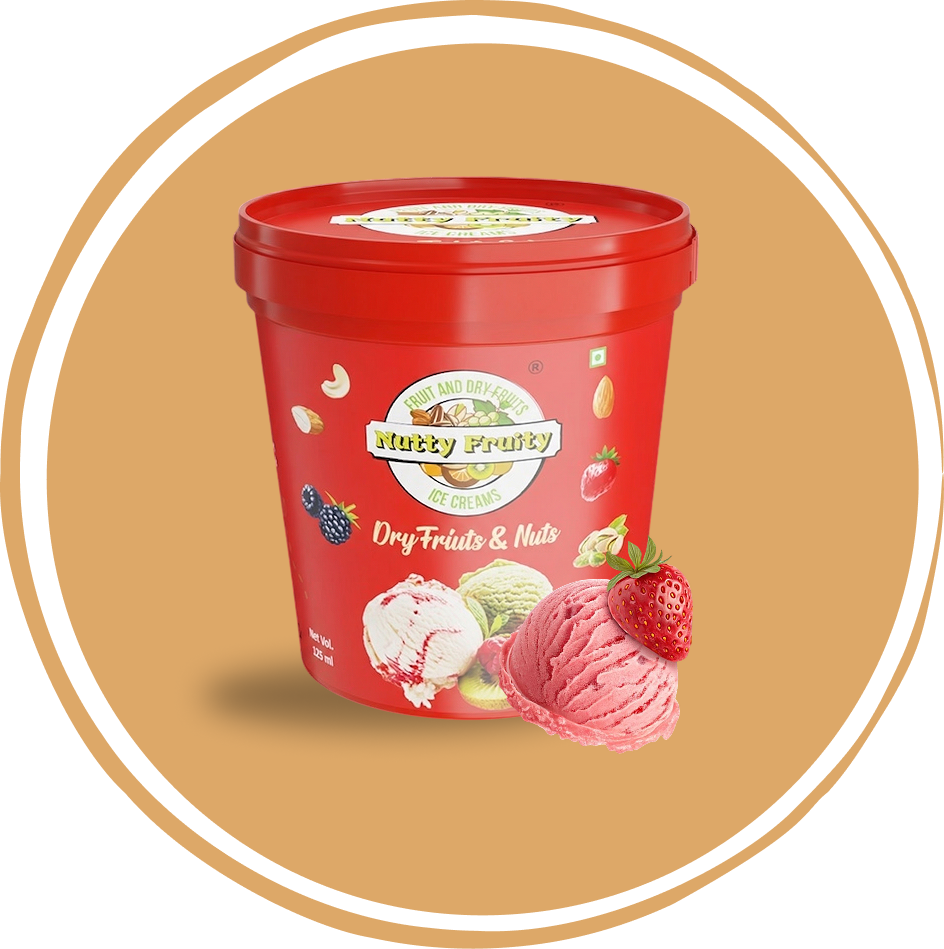
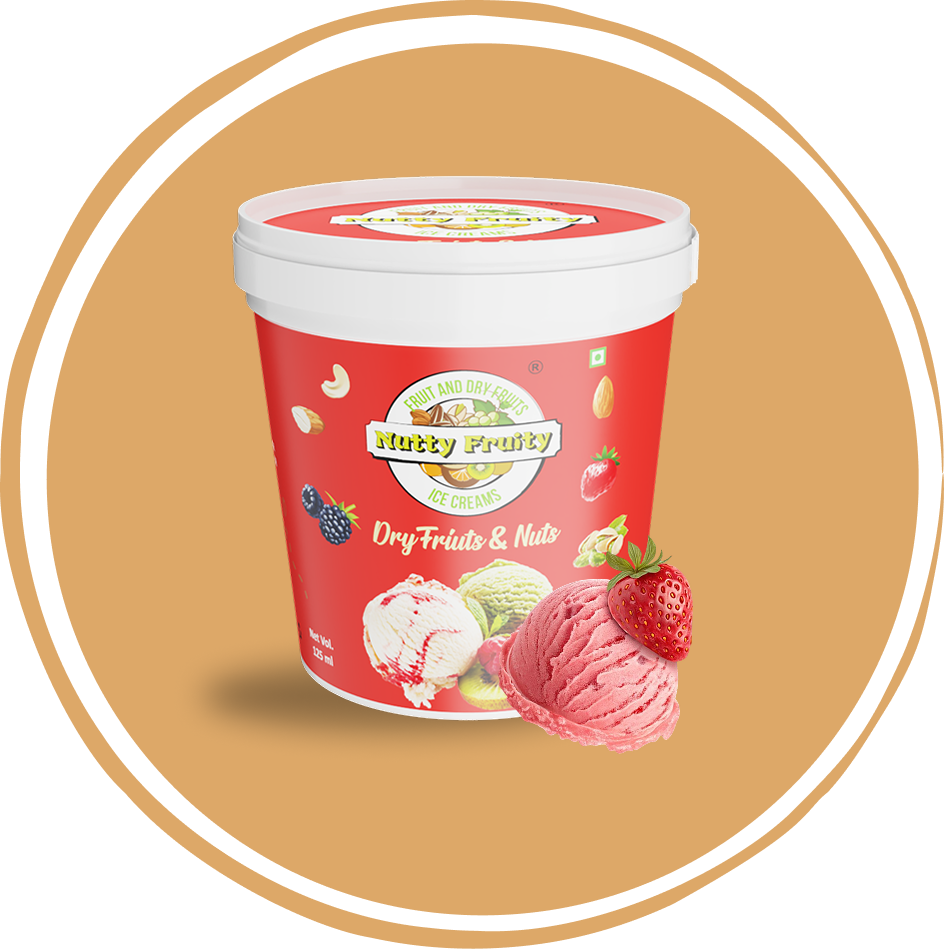
first commit

diff --git a/For_Desc/script2.js b/For_Desc/script2.js
@@ -515,13 +515,26 @@ function iceCreamRoundCrossfadeBg(newSrc) {
 // translateX(-33%) = centre slot visible        ← default/resting
 // translateX(-66%) = next slot visible
 
+// ── Track slide out ───────────────────────────────────────────
 function iceCreamRoundSlideTrackOut(direction) {
   const t = iceCreamRoundEl.track;
-  t.style.transition = "transform 0.42s cubic-bezier(0.4,0,0.6,1)";
-  // next → slide left (negative), prev → slide right (positive)
-  t.style.transform  = direction === "next"
-    ? "translateX(-66.666%)"
-    : "translateX(0%)";
+  t.style.transition = "transform 0.5s cubic-bezier(0.4, 0, 0.6, 1)";
+
+  if (direction === "next") {
+    // Slide left — next slot comes into view
+    t.style.transform = "translateX(-66.666%)";
+  } else {
+    // Slide right — previous slot comes into view
+    t.style.transform = "translateX(0%)";
+  }
+}
+
+// ── Snap back to centre instantly, then settle ────────────────
+function iceCreamRoundSnapToCenter() {
+  const t = iceCreamRoundEl.track;
+  t.style.transition = "none";
+  t.style.transform  = "translateX(-33.333%)";
+  t.offsetWidth; // force reflow
 }
 
 function iceCreamRoundSnapAndSlideIn() {
@@ -575,35 +588,76 @@ function iceCreamRoundUpdateDots() {
   });
 }
 
+// ── Preload container images before transition ────────────────
+function iceCreamRoundPreloadImages(product) {
+  return new Promise((resolve) => {
+    let loaded = 0;
+    const sources = [
+      product.previousContainerImg,
+      product.currentContainerImg,
+      product.nextContainerImg
+    ];
+    const total = sources.length;
+
+    sources.forEach((src) => {
+      const img = new Image();
+      img.onload = img.onerror = () => {
+        loaded++;
+        if (loaded >= total) resolve();
+      };
+      img.src = src;
+    });
+
+    // Safety fallback
+    setTimeout(resolve, 1200);
+  });
+}
+
 // ── Master transition ─────────────────────────────────────────
+// ── Master transition (carousel slide) ────────────────────────
 function iceCreamRoundTransitionTo(newIndex, direction) {
   if (iceCreamRoundIsAnimating) return;
   iceCreamRoundIsAnimating = true;
 
   const product = iceCreamRoundProducts[newIndex];
 
-  // 1. Fade background immediately
-  iceCreamRoundCrossfadeBg(product.backgroundImg);
+  // 1. Preload next set of images
+  iceCreamRoundPreloadImages(product).then(() => {
 
-  // 2. Slide track out
-  iceCreamRoundSlideTrackOut(direction);
+    // 2. Crossfade background
+    iceCreamRoundCrossfadeBg(product.backgroundImg);
 
-  // 3. Mid-point: swap images + slide back in + reveal texts
-setTimeout(() => {
-    iceCreamRoundCurrentIndex = newIndex;
-    iceCreamRoundSwapImages(product);
-    iceCreamRoundSnapAndSlideIn();
-    iceCreamRoundFireReveals();
-    iceCreamRoundUpdateDots();
+    // 3. Slide the track out (carousel motion)
+    iceCreamRoundSlideTrackOut(direction);
 
-    // ── ADD THIS LINE ONLY ──
-    const icrLink = document.getElementById('ice-cream-round-360-link');
-    if (icrLink && product.lightboxUrl) icrLink.href = product.lightboxUrl;
+    // 4. After slide completes — swap images and snap back
+    setTimeout(() => {
 
-}, 340);
+      // Update index
+      iceCreamRoundCurrentIndex = newIndex;
 
-  // 4. Unlock
-  setTimeout(() => { iceCreamRoundIsAnimating = false; }, 860);
+      // Swap all image sources
+      iceCreamRoundSwapImages(product);
+
+      // Update lightbox link
+      const icrLink = document.getElementById('ice-cream-round-360-link');
+      if (icrLink && product.lightboxUrl) icrLink.href = product.lightboxUrl;
+
+      // Snap track back to centre instantly (no visible jump because images match)
+      iceCreamRoundSnapToCenter();
+
+      // Fire text reveals
+      iceCreamRoundFireReveals();
+      iceCreamRoundUpdateDots();
+
+      // Unlock after settle
+      setTimeout(() => {
+        iceCreamRoundIsAnimating = false;
+      }, 100);
+
+    }, 500); // ← matches the CSS transition duration (0.5s)
+
+  });
 }
 
 // ── Navigation ────────────────────────────────────────────────
@@ -650,11 +704,9 @@ function iceCreamRoundInit() {
     // 4. Reset all images to first product
     iceCreamRoundSwapImages(first);
 
-    // 5. Snap track to centre instantly (no animation)
-    iceCreamRoundEl.track.style.transition = "none";
-    iceCreamRoundEl.track.style.transform  = "translateX(-33.333%)";
-    iceCreamRoundEl.track.offsetWidth;     // force reflow
 
+// NEW:
+iceCreamRoundSnapToCenter();
     // 6. Fire entrance reveal animations
     iceCreamRoundFireReveals();
     iceCreamRoundUpdateDots();
@@ -696,7 +748,15 @@ roundprevBtn.addEventListener('click', () => {
 
 
 
-
+// ── Preload all product images upfront ────────────────────────
+(function () {
+  iceCreamRoundProducts.forEach((product) => {
+    ['backgroundImg', 'currentContainerImg', 'previousContainerImg', 'nextContainerImg'].forEach((key) => {
+      const img = new Image();
+      img.src = product[key];
+    });
+  });
+})();
 
 
 

diff --git a/For_Desc/index.html b/For_Desc/index.html
@@ -2455,30 +2455,42 @@ onmouseout="this.style.transform='scale(1)'"  data-audio-path="../audios/IML-ice
                             alt="iml-ice-cream-round" class="icr-reveal-el absolute top-[5%] left-[33%] w-[40%]" />
 
                         
-                        <div id="ice-cream-round-track" class="ice-cream-round-track">
-                            <img id="ice-cream-round-previous-container-img"
-                                src="../global assets/Images/Ice-cream-round/125ml/125ml-container.webp"
-                                alt="100ml-container" class="absolute top-[25%] left-[-20%] w-[40%] " />
+                       <div id="ice-cream-round-track" class="ice-cream-round-track">
 
-                            <!-- wrap only the current (center) container in the <a> tag -->
-                            <a id="ice-cream-round-360-link"
-                                href="../lightBox/index.html#100-ml-ice-cream-round-container" target="_blank"
-                                class="no-flip-zone">
+    <!-- SLOT 1: Previous -->
+    <div class="ice-cream-round-track-slot side">
+        <img id="ice-cream-round-previous-container-img"
+            src="../global assets/Images/Ice-cream-round/125ml-false-bottom/125ml-false-bottom-container.webp"
+            alt="previous-container" />
+    </div>
 
-                                <img src="../global assets/Images/commonThings/360-animated-icon-Black.gif" alt="360-icon"
-                                    style="position:absolute; top:21%; left:64%; width:11%; cursor:pointer; z-index:4;" />
+    <!-- SLOT 2: Current (center) -->
+    <div class="ice-cream-round-track-slot center">
+        <a id="ice-cream-round-360-link"
+            href="../lightBox/index.html#100-ml-ice-cream-round-container"
+            target="_blank"
+            class="no-flip-zone"
+            style="position:relative; display:flex; align-items:center; justify-content:center;">
 
-                                <img id="ice-cream-round-current-container-img"
-                                    src="../global assets/Images/Ice-cream-round/100ml/100ml-container.webp"
-                                    alt="100ml-container" class=" absolute top-[25%] left-[30%] w-[40%]"
-                                    style="cursor:pointer;" />
+            <img src="../global assets/Images/commonThings/360-animated-icon-Black.gif"
+                alt="360-icon"
+                style="position:absolute; top:-5%; right:5%; width:18%; cursor:pointer; z-index:4;" />
 
-                            </a>
+            <img id="ice-cream-round-current-container-img"
+                src="../global assets/Images/Ice-cream-round/100ml/100ml-container.webp"
+                alt="current-container"
+                style="cursor:pointer;" />
+        </a>
+    </div>
 
-                            <img id="ice-cream-round-next-container-img"
-                                src="../global assets/Images/Ice-cream-round/115ml/115ml-container.webp"
-                                alt="100ml-container" class="absolute top-[25%] right-[-20%] w-[40%] " />
-                        </div>
+    <!-- SLOT 3: Next -->
+    <div class="ice-cream-round-track-slot side">
+        <img id="ice-cream-round-next-container-img"
+            src="../global assets/Images/Ice-cream-round/115ml/115ml-container.webp"
+            alt="next-container" />
+    </div>
+
+</div>
 
 
                         <img id="ice-cream-round-container-name"

diff --git a/For_Desc/main.css b/For_Desc/main.css
@@ -1111,37 +1111,56 @@
    - translateX(-100%) keeps the CENTRE slot in view
    - overflow:visible so side containers peek in from edges
 */
+/* ── Carousel track ── */
 .ice-cream-round-track {
   position: absolute;
   top: 7%;
-  left: 30%;           /* offset so translateX(-100%) centres correctly */
-  width: 300%;
-  height: 55%;
+  left: 21%;
+  width: 130%;
+  height: 60%;
   display: flex;
   align-items: center;
   will-change: transform;
   z-index: 2;
   overflow: visible;
-  width: 110%;
-  gap: 7%;
+  transform: translateX(-33.333%);
+  transition: transform 0.5s cubic-bezier(0.4, 0, 0.6, 1);
 }
 
-/* Each slot is 1/3 of the 300% track = exactly 100% of page width */
+/* Each slot takes exactly 1/3 of the 300% track = 100% page width */
 .ice-cream-round-track-slot {
-  flex: 0 0 calc(100% / 3);
+  flex: 0 0 33.333%;
   height: 100%;
-  object-fit: contain;
-  padding: 0 22%;          /* narrows the image so sides peek in */
-  transform: scale(0.7) translateY(10px);
-  opacity: 0.5;
-  transition: transform 0.35s ease, opacity 0.35s ease;
+  display: flex;
+  align-items: center;
+  justify-content: center;
+  position: relative;
+
 }
 
-/* Centre slot — full size, full opacity */
-.ice-cream-round-track-slot--main {
-  transform: scale(1) translateY(0);
+.ice-cream-round-track-slot.center{
+    margin-left: 5%;
+  margin-right: 5%;
+}
+
+.ice-cream-round-track-slot img {
+  width: 100%;
+  height: auto;
+  object-fit: contain;
+  transition: transform 0.5s ease, opacity 0.5s ease;
+}
+
+/* Side slots — smaller and faded */
+.ice-cream-round-track-slot.side img {
+  transform: scale(1);
+  opacity: 0.5;
+}
+
+/* Centre slot — full size */
+.ice-cream-round-track-slot.center img {
+  transform: scale(1);
   opacity: 1;
-  padding: 0 15%;
+
 }
 
 /* ── Staggered reveal for text SVGs ── */
@@ -1221,6 +1240,9 @@
   0%, 100% { transform: translateX(0);  }
   50%      { transform: translateX(4px); }
 }
+
+
+
 /* **********************************Ice Cream Round Cup Animation code end********************************* */
 
 
